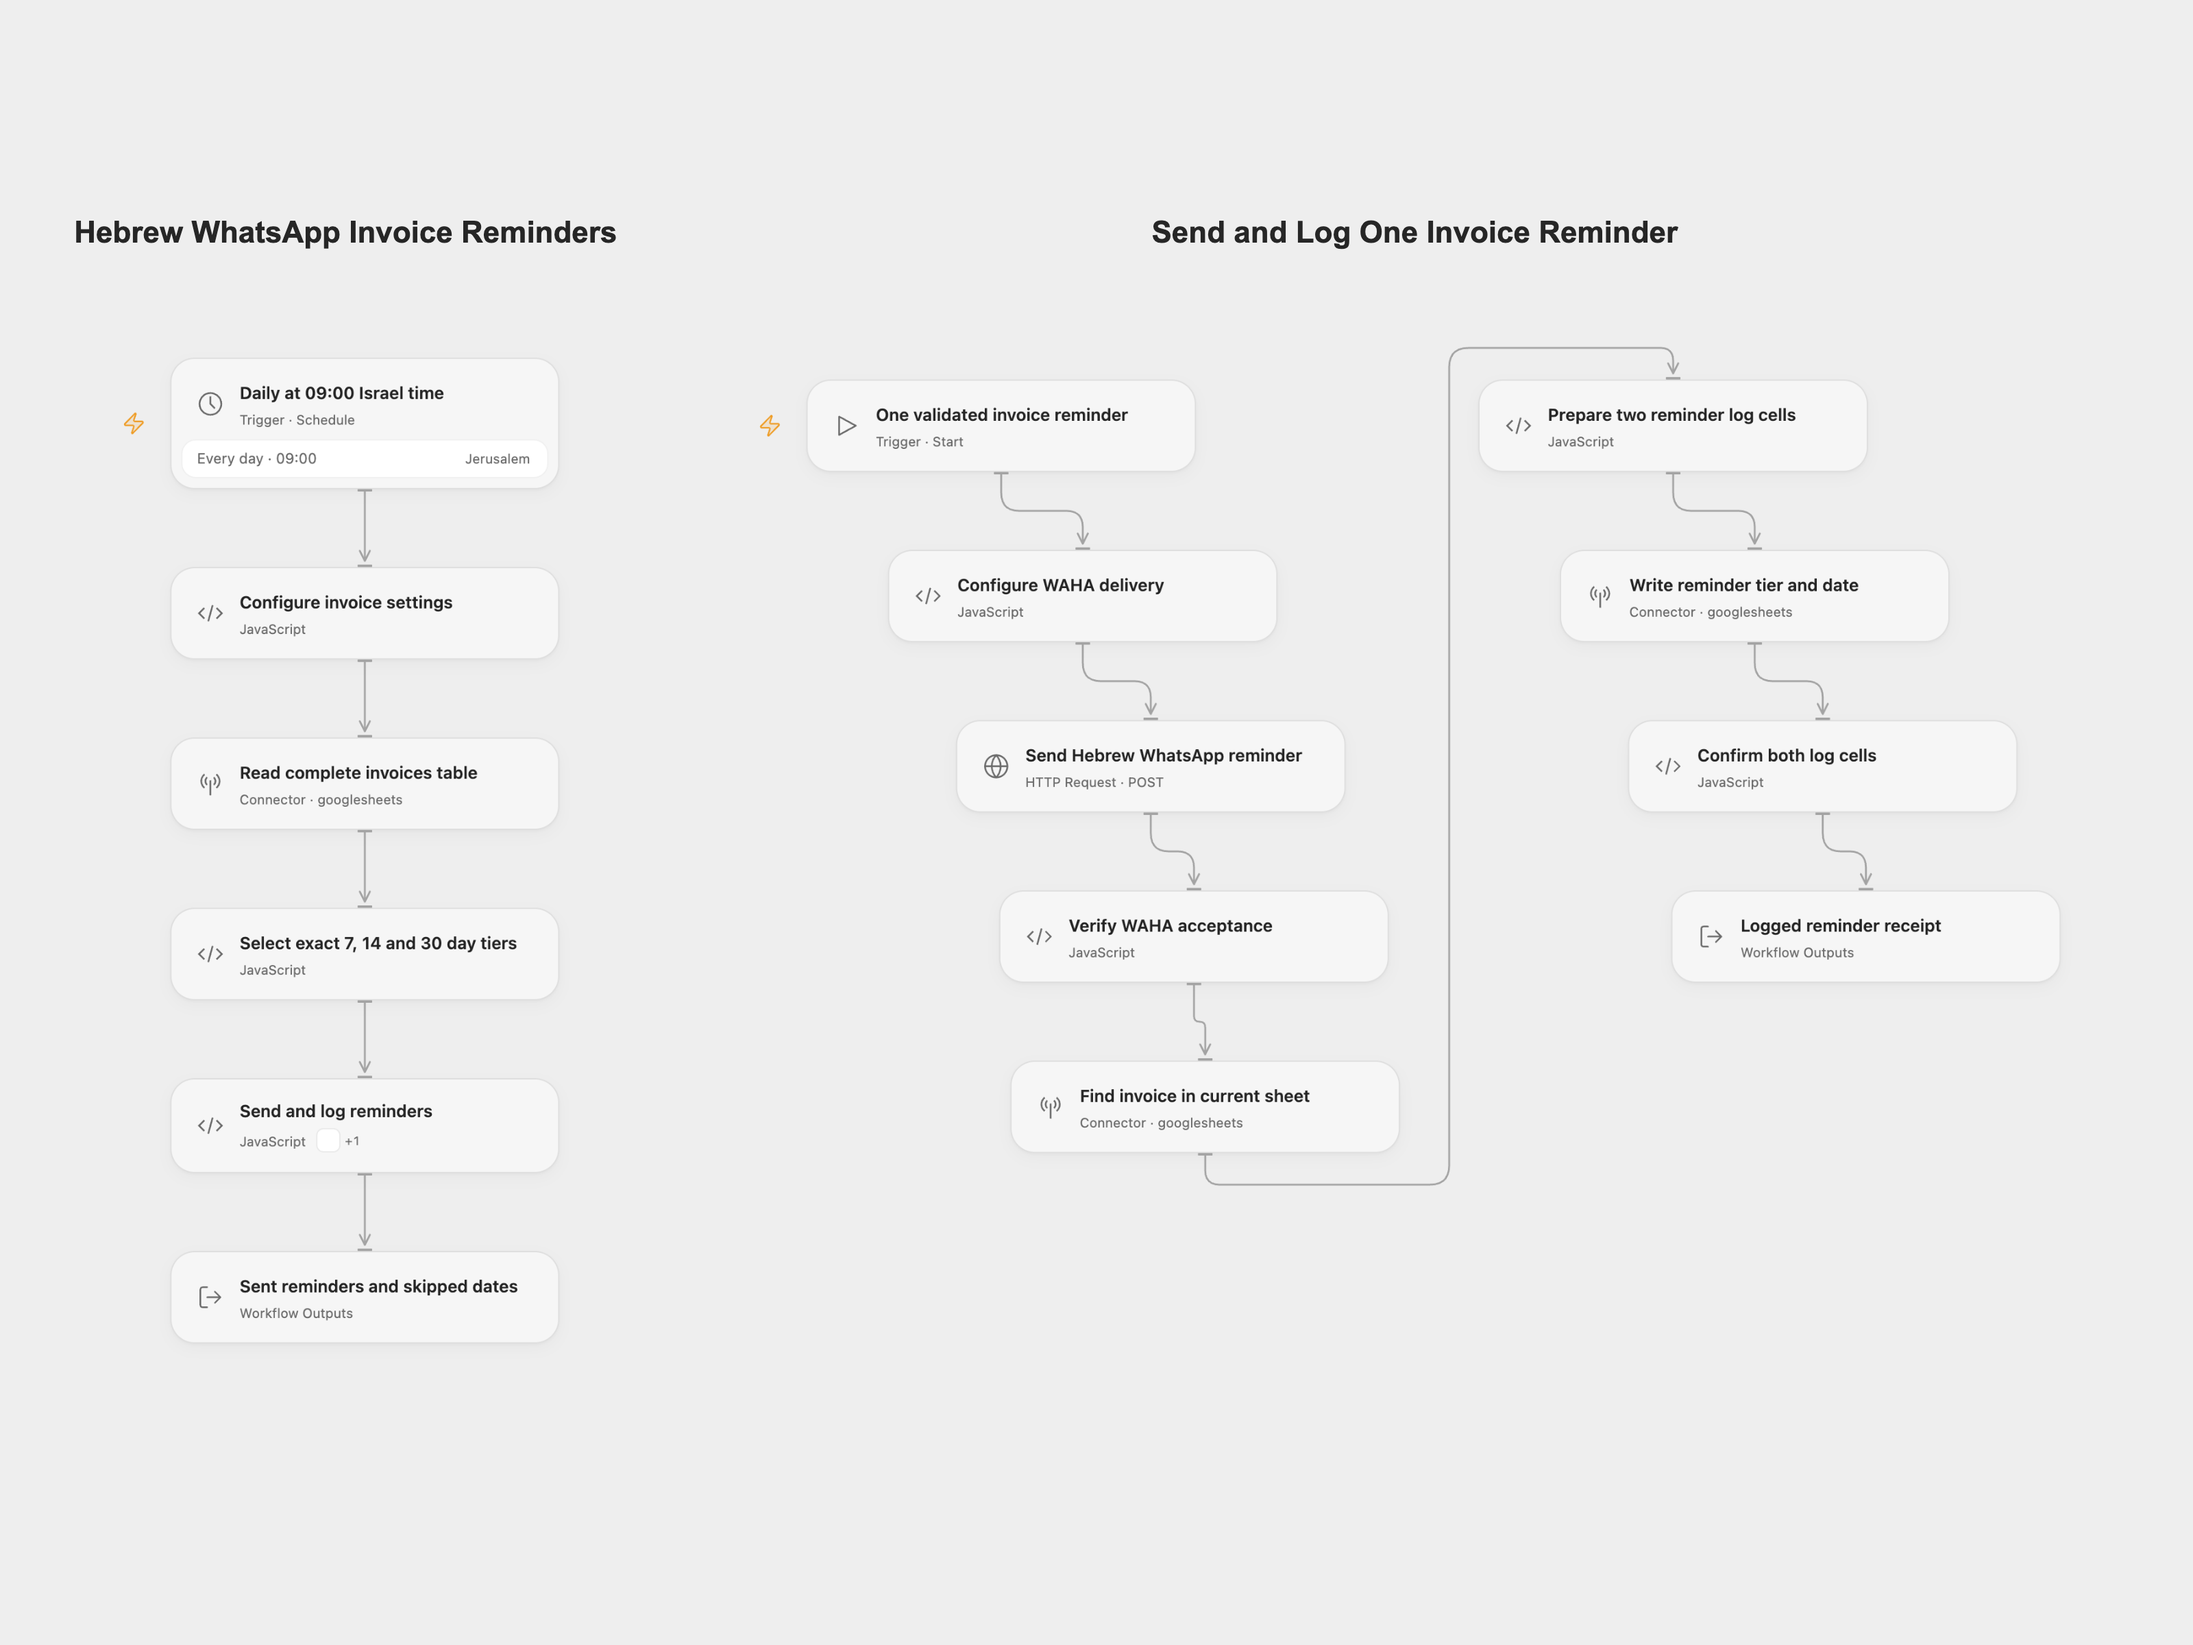
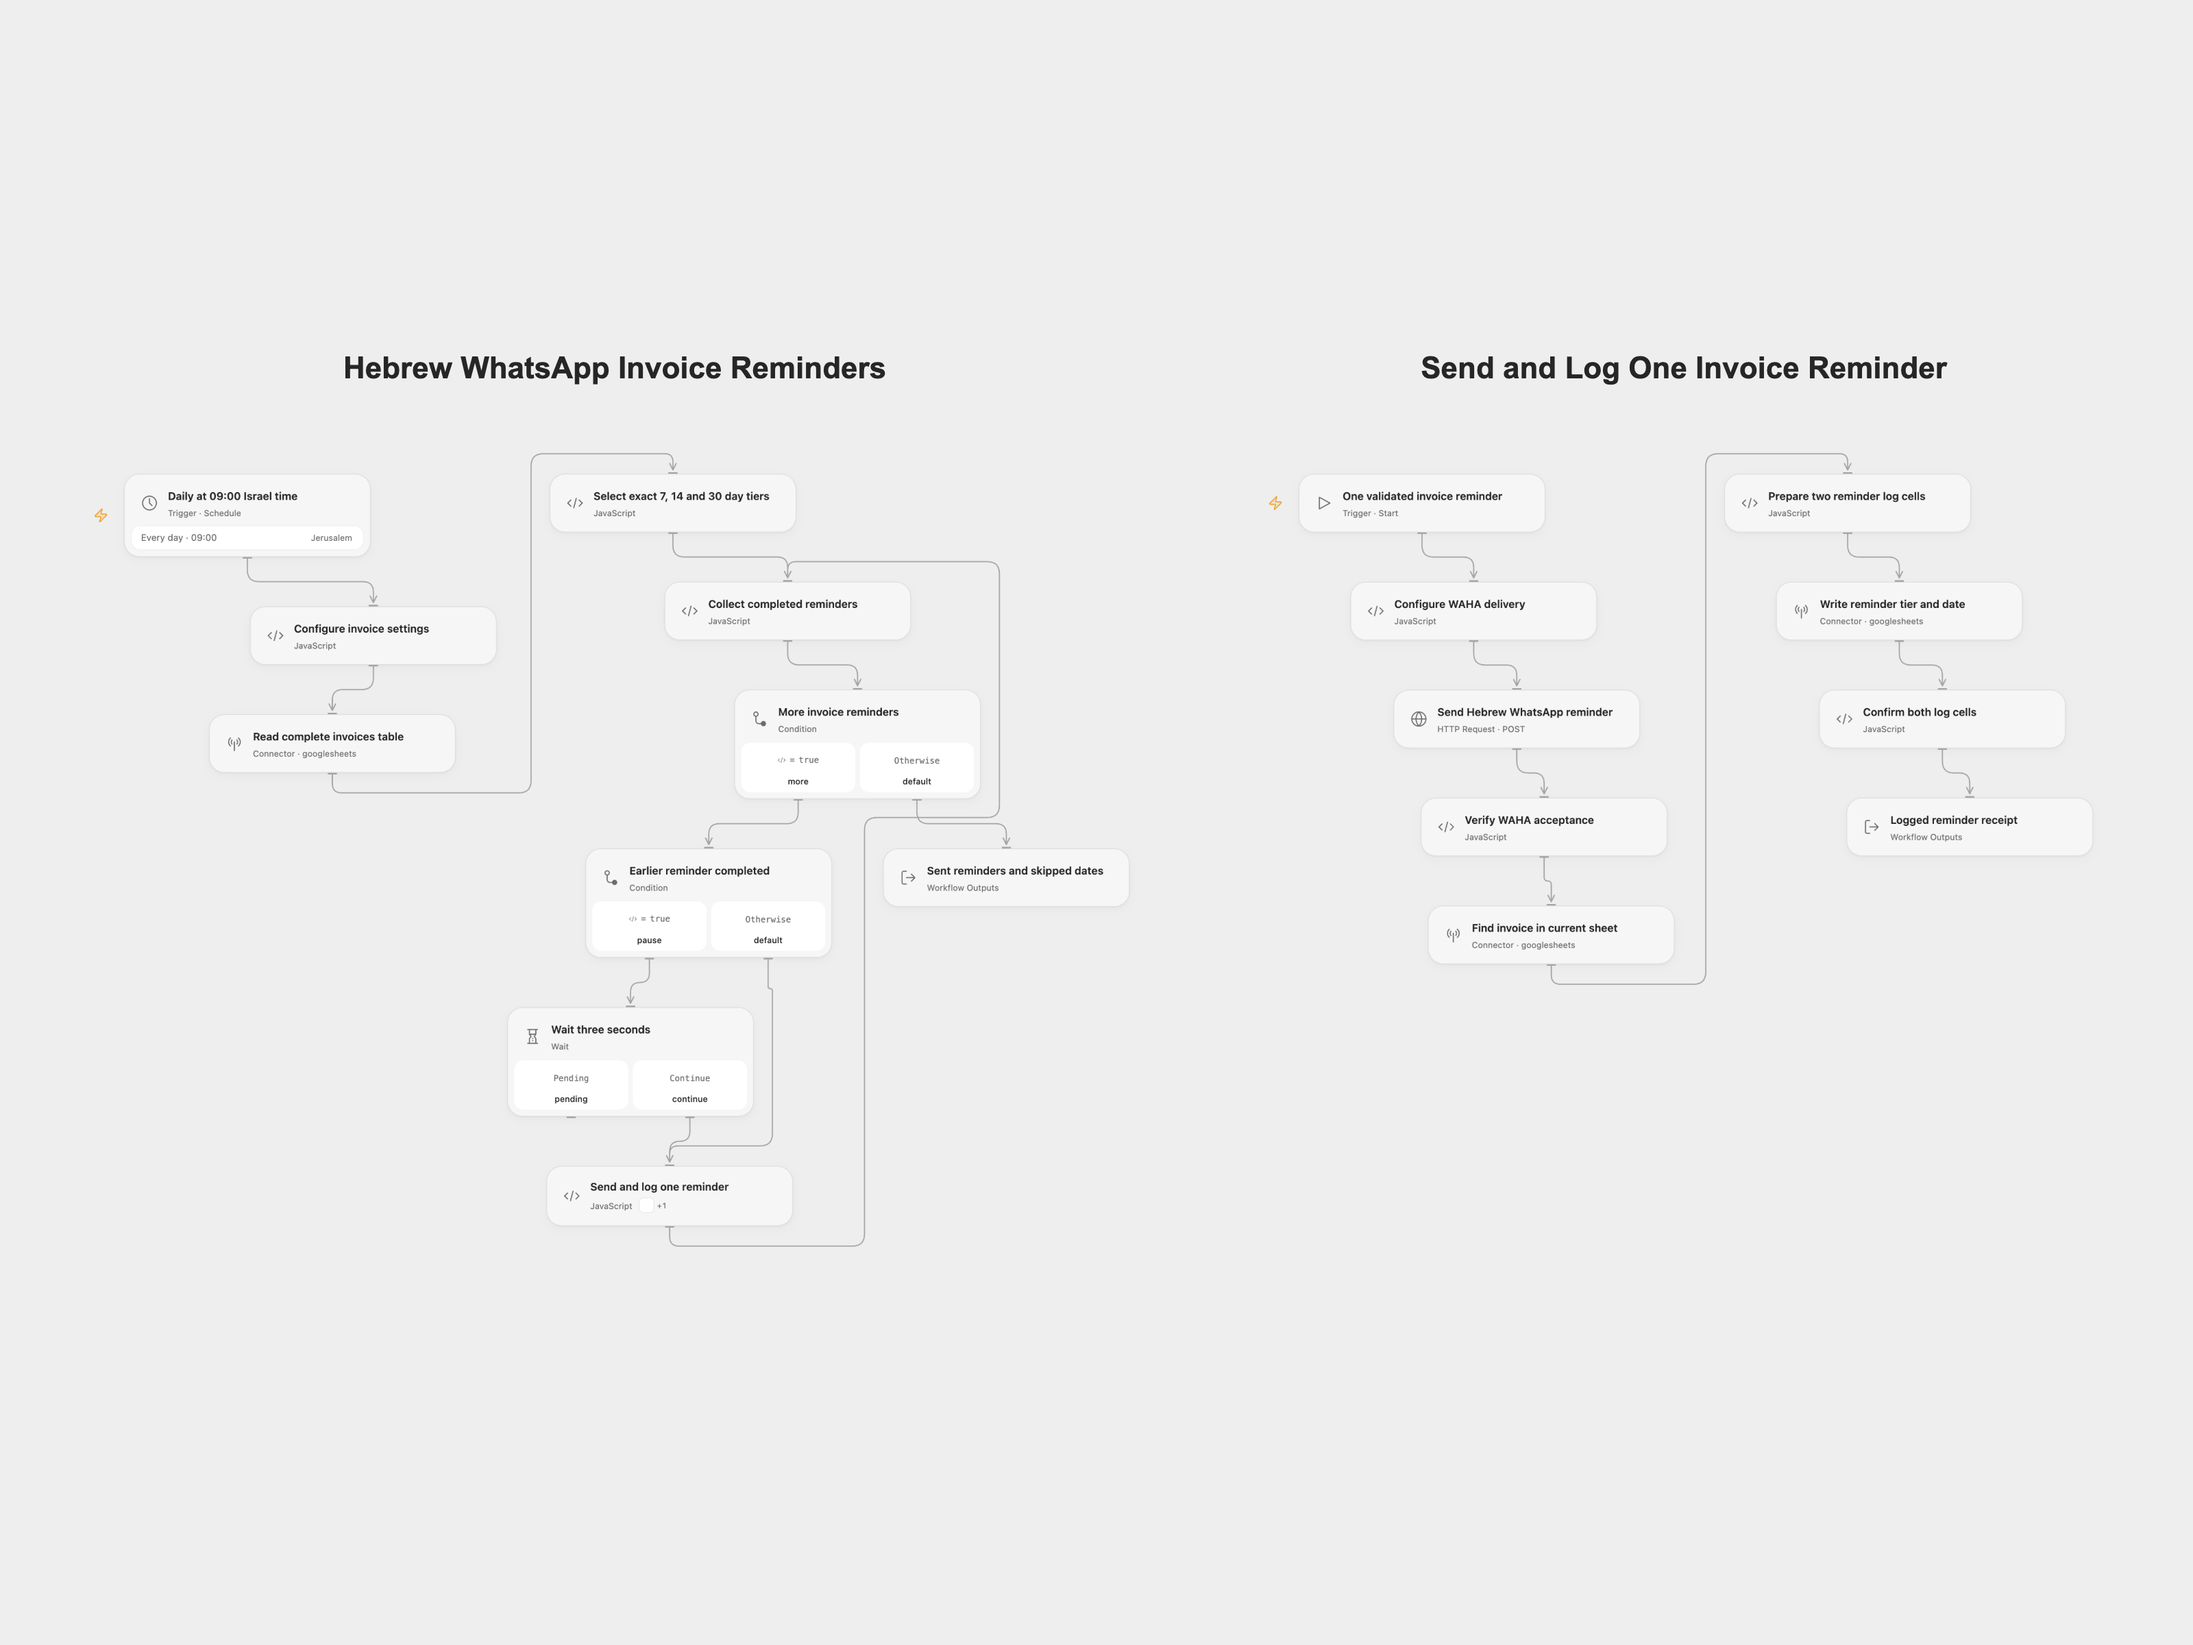
fix: preserve WhatsApp batch delivery with native waits and feedback

diff --git a/workflows/hebrew-whatsapp-invoice-reminders/README.md b/workflows/hebrew-whatsapp-invoice-reminders/README.md
@@ -29,7 +29,7 @@ Import `templates/hebrew-whatsapp-invoice-reminders.openflow.json`. The bundle i
 2. In the worker’s **Configure WAHA delivery**, replace the endpoint with your HTTPS `/api/sendText` URL and set the working session name. The WAHA endpoint must be reachable from the Open Flow server within its outbound network rules. The default session is `default`.
 3. Create a secret Variable containing the WAHA API key. In **Send Hebrew WhatsApp reminder**, bind **Authentication Token** (`auth.token`) to that Variable. The request sends it in `X-Api-Key`. The shared file contains no key or Variable binding.
 4. Select the Google Sheets account on the worker’s read and write steps, with permission to edit this spreadsheet.
-5. Publish **Send and Log One Invoice Reminder**, then refresh **Send and log reminders** in the main workflow to select the worker’s published interface. Publish and enable the main schedule.
+5. Publish **Send and Log One Invoice Reminder**, then refresh **Send and log one reminder** in the main workflow to select the worker’s published interface. Publish and enable the main schedule.
 
 If changing timezone, update both the main schedule and the processing-timezone setting. Review the template using a test sheet and a WAHA session you control before enabling the daily schedule.
 
@@ -37,7 +37,7 @@ If changing timezone, update both the main schedule and the processing-timezone 
 
 Import `templates/hebrew-whatsapp-invoice-reminders.n8n.json`. Edit the settings object in **Configure Invoice Sheet and Timezone** and the endpoint/session object in **Configure WAHA Delivery**. Select Google Sheets OAuth2 credentials on the three Sheets HTTP steps. On **Post WhatsApp Reminder**, select Header Auth credentials with name `X-Api-Key` and your WAHA API key as the value. Confirm the workflow timezone and activate the schedule.
 
-The two formats use the same Hebrew messages and selection rules. n8n uses its native loop and Wait node; Open Flow calls the bundled worker in sequence.
+The two formats use the same Hebrew messages and selection rules. n8n uses its native loop and Wait node; Open Flow uses a visible feedback loop, one bundled-worker call per invoice and an automatic Wait node.
 
 ## Sending and logging
 
@@ -45,7 +45,7 @@ An invoice is selected only on its exact 7th, 14th or 30th overdue calendar day.
 
 Each invoice is sent once, then logged before the next invoice starts. WAHA must return HTTP 201, a message ID and an outgoing-message result without a failure acknowledgement. This confirms API acceptance, not delivery or reading by the customer. The workflow then reads the current tab, matches the invoice ID again, and writes only `LastReminder` and `LastReminderDate`. It verifies both returned cell values. Other invoice fields remain intact. Keep the sheet stable during a run; the read and write are separate operations without a row lock.
 
-There is a three-second wait between completed invoices. Open Flow allows up to 30 seconds per HTTP step and two hours for the collection step. No automatic workflow retry is configured. A request error, uncertain send, missing/duplicate current invoice or unconfirmed log stops later invoices. Earlier completed invoices stay logged. A message may already have been sent when logging fails; check WAHA and the sheet before repeating an uncertain run.
+There is a three-second wait between completed invoices, with no leading or trailing wait. Each Open Flow loop iteration calls the worker once. HTTP steps have a 30-second budget; collection and receipt data must fit the platform’s Code input/result budgets (1 MiB each in the inspected host) and run lifetime. A limit failure stops later invoices without rolling back earlier sends or logs. No automatic workflow retry is configured. A request error, uncertain send, missing/duplicate current invoice or unconfirmed log stops later invoices. Earlier completed invoices stay logged. A message may already have been sent when logging fails; check WAHA and the sheet before repeating an uncertain run.
 
 ## Changes to the source
 
